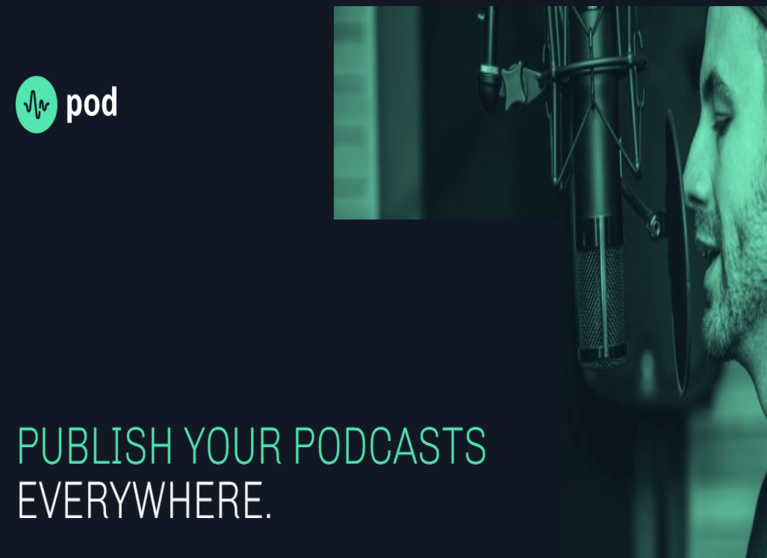
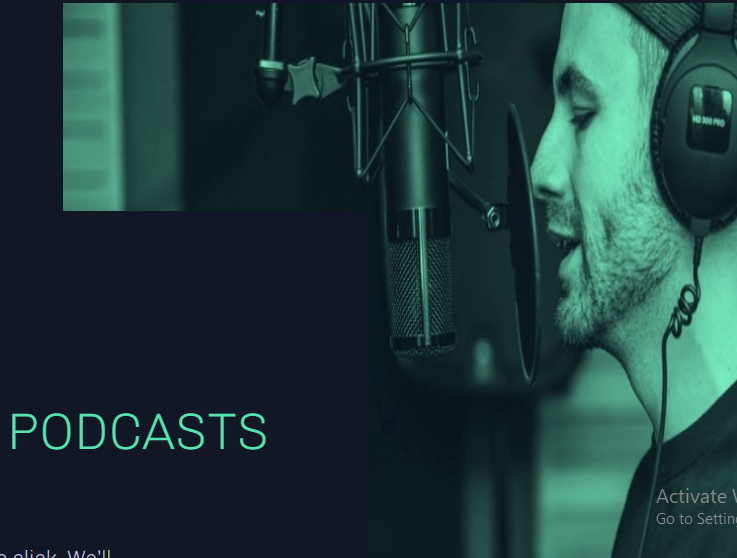
removed project snippets

diff --git a/index.html b/index.html
@@ -267,20 +267,20 @@
                 </div>
             </div>
 
-            <div class="row folio-entries">
-
+            <!-- <div class="row folio-entries" > -->
+<!-- 
                 <div class="column entry" >
                     <a href="images/gas.png" class="entry__link glightbox" data-glightbox="Gas Sync App; description: .entry__desc-01">
                         <div class="entry__thumb">
-                            <img src="images/g1.png" srcset="images/g1.png 1x, images/g1.png 2x" alt="" height="50px">
+                            <img src="images/g1.png" srcset="images/g1.png 1x, images/g1.png 2x" alt=""style="height:265.8px; width:186px;">
                         </div>
                         <div class="entry__info">
                             <h4 class="entry__title">Gas Sync App</h4>
                             <div class="entry__cat">Full Stack</div>
                         </div>
-                    </a>
+                    </a> -->
 
-                    <div class="glightbox-desc entry__desc-01">
+                    <!-- <div class="glightbox-desc entry__desc-01">
                         <p>
                       A full-stack web app built with React, Node.js, Express, and MongoDB. 
                       It allows users to generate invoices, store receipts, and track expenses for 
@@ -289,20 +289,20 @@
                         <a href="https://gasync.netlify.app/">Project Link</a>.
                         </p>
                     </div>
-                </div> <!-- entry -->
+                </div> entry -->
 
-                <div class="column entry">
-                    <a href="images/dictionary.png" class="entry__link glightbox" data-glightbox="title: WoodCraft; description: .entry__desc-02">
+                <!-- <div class="column entry">
+                    <a href="images/dictionary.png" class="entry__link glightbox" data-glightbox="title: Dictionary; description: .entry__desc-02">
                         <div class="entry__thumb">
-                            <img src="images/dictionary.png" srcset="images/dictionary.png 1x, images/dictionary.png 2x" alt="">
+                            <img src="images/dictionary.png" srcset="images/dictionary.png 1x, images/dictionary.png 2x" alt="" style="height:265.8px; width:auto; object-fit: contain">
                         </div>
                         <div class="entry__info">
                             <h4 class="entry__title">Dictionary</h4>
                             <div class="entry__cat">API Frontend</div>
                         </div>
-                    </a>
+                    </a> -->
 
-                    <div class="glightbox-desc entry__desc-02">
+                    <!-- <div class="glightbox-desc entry__desc-02">
                         <p>
                        A sleek React application that lets users search for English word definitions, listen to pronunciations,
                         and switch between light and dark modes. Built with React, Axios, and Tailwind CSS,
@@ -310,20 +310,20 @@
                         <a href="https://english-dictionary-app1.netlify.app/">Project Link</a>.
                         </p>
                     </div>
-                </div> <!-- entry -->
+                </div> < entry -->
 
-                <div class="column entry">
+                <!-- <div class="column entry">
                     <a href="images/podcast.png" class="entry__link glightbox" data-glightbox="title: Podcast; description: .entry__desc-03">
                         <div class="entry__thumb">
-                            <img src="images/podcast.png" srcset="images/podcast.png 1x, images/podcast.png 2x" alt="">
+                            <img src="images/pod.png" srcset="images/pod.png 1x, images/pod.png 2x" alt="" style="height:265.8px; width:auto; object-fit: fill">
                         </div>
                         <div class="entry__info">
                             <h4 class="entry__title">Podcast</h4>
                             <div class="entry__cat">Landing Page</div>
                         </div>
-                    </a>
+                    </a> -->
 
-                    <div class="glightbox-desc entry__desc-03">
+                    <!-- <div class="glightbox-desc entry__desc-03">
                         <p>
                      A modern, responsive landing page built with React and Vite, designed to showcase 
                      podcast episodes with a clean layout and engaging UI. Optimized for 
@@ -331,19 +331,19 @@
                         <a href="https://ideeassim.github.io/Responsive-Podcast-Page/">Project Link</a>.
                         </p>
                     </div>
-                </div> <!-- entry -->
-
+                </div> entry -->
+<!-- 
                 <div class="column entry">
                     <a href="images/interactive.png" class="entry__link glightbox" data-glightbox="title: Grayscale; description: .entry__desc-04">
                         <div class="entry__thumb">
-                            <img src="images/interactive.png" srcset="images/interactive.png 1x, images/interactive.png 2x" alt="">
+                            <img src="images/interactive.png" srcset="images/interactive.png 1x, images/interactive.png 2x" alt="" style="height:265.8px; width:auto; object-fit: contain">
                         </div>
                         <div class="entry__info">
                             <h4 class="entry__title">Interactive-Rating-Components</h4>
                             <div class="entry__cat">Frontend Development</div>
                         </div>
-                    </a>
-
+                    </a> --> 
+<!-- 
                     <div class="glightbox-desc entry__desc-04">
                         <p>
                         A responsive React component that allows users to select and submit ratings with instant feedback. 
@@ -352,12 +352,12 @@
                         <a href="https://ideeassim.github.io/Interactive-Rating-Components/">Project Link</a>.
                         </p>
                     </div>
-                </div> <!-- entry -->
-
+                </div> <entry -->
+<!-- 
                 <div class="column entry">
                     <a href="images/faq.png" class="entry__link glightbox" data-glightbox="title: The Lamp; description: .entry__desc-05">
                         <div class="entry__thumb">
-                            <img src="images/faq.png" srcset="images/faq.png 1x, images/faq.png 2x" alt="">
+                            <img src="images/faq.png" srcset="images/faq.png 1x, images/faq.png 2x" alt=""style="height:265.8px; width:auto; object-fit: contain">
                         </div>
                         <div class="entry__info">
                             <h4 class="entry__title">FAQ Accordion</h4>
@@ -372,19 +372,19 @@
                         <a href="https://ideeassim.github.io/Faq-Accordion-with-Vue.js/">Project Link</a>.
                         </p>
                     </div>
-                </div> <!-- entry -->
+                </div>  -->
 
-                <div class="column entry">
+                <!-- <div class="column entry" >
                     <a href="images/grid.png" class="entry__link glightbox" data-glightbox="title: Tropical; description: .entry__desc-06">
                         <div class="entry__thumb">
-                            <img src="images/grid.png" srcset="images/grid.png 1x, images/grid.png 2x" alt="">
+                            <img src="images/grid.png" srcset="images/grid.png 1x, images/grid.png 2x" alt="" style="height:265.8px; width:auto; object-fit: contain;">
                         </div>
                         <div class="entry__info">
                             <h4 class="entry__title">Bento Grid</h4>
                             <div class="entry__cat">Frontend Design</div>
                         </div>
-                    </a>
-
+                    </a> -->
+<!-- 
                     <div class="glightbox-desc entry__desc-06">
                         <p>
                       A responsive grid-based layout built with React and CSS Grid/Tailwind to experiment with modern 
@@ -393,7 +393,7 @@
                         <a href="https://ideeassim.github.io/New-bento-grid/">Project Link</a>.
                         </p>
                     </div>
-                </div> <!-- entry --> 
+                </div> entry  -->
 
             </div> <!-- folio entries -->
 
